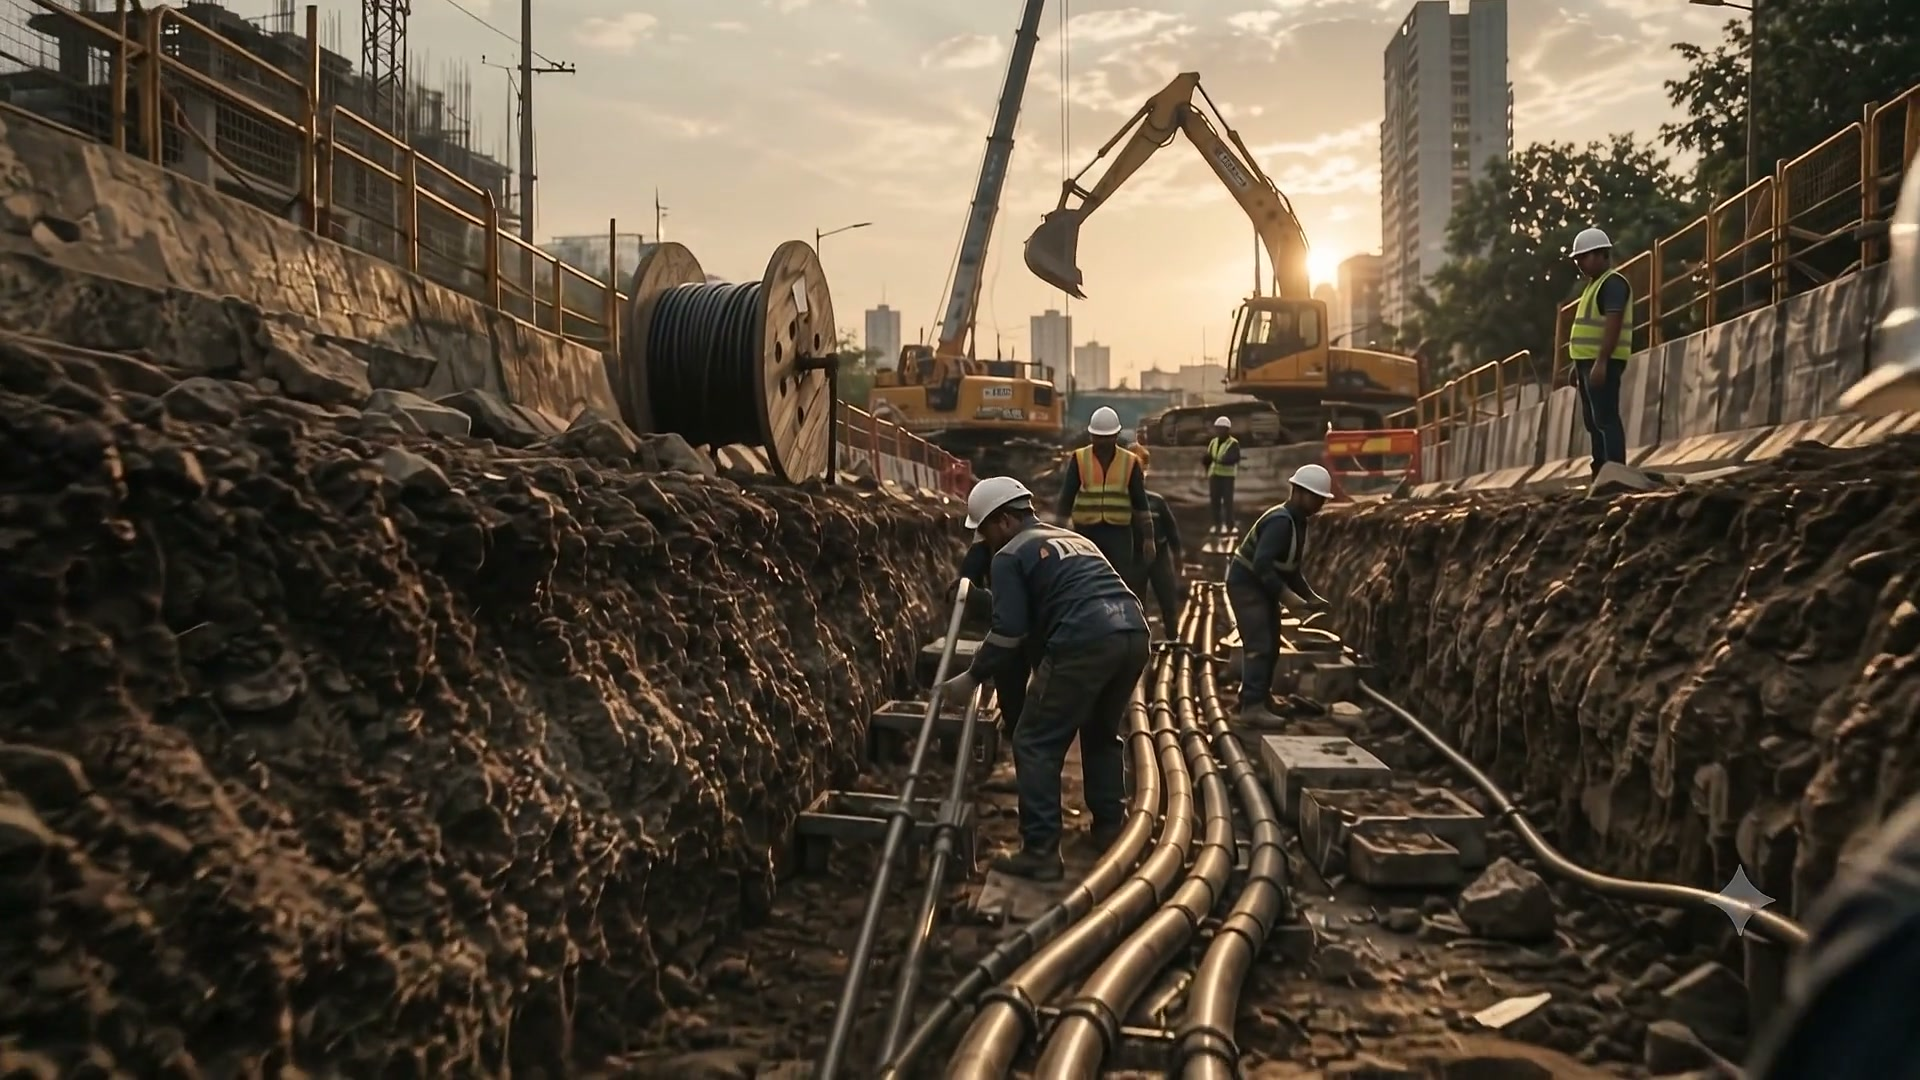
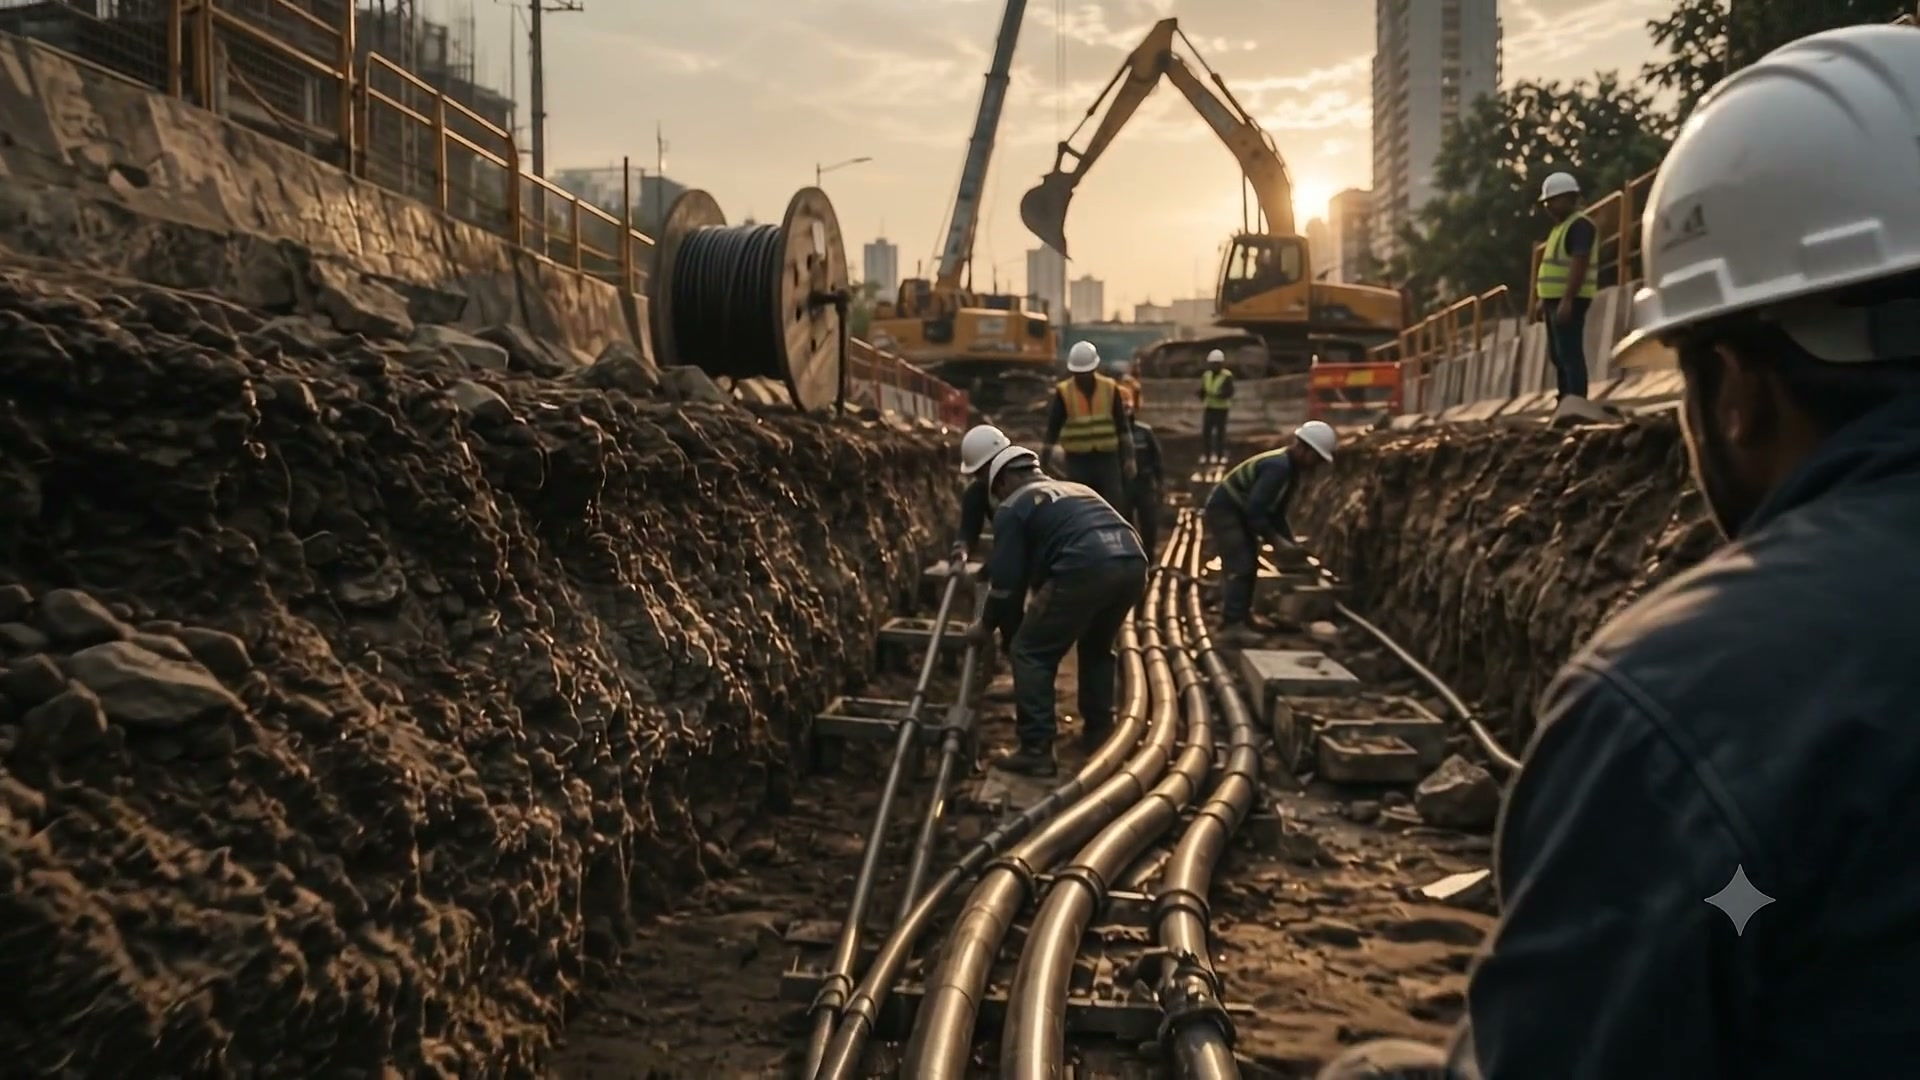
feat(cable-systems): expand video frame to 4/3 aspect ratio with two-col-45-55 grid for full cinematic visibility

diff --git a/components/cable-systems/UndergroundCableSection.tsx b/components/cable-systems/UndergroundCableSection.tsx
@@ -57,7 +57,7 @@ export default function UndergroundCableSection() {
       aria-label="Underground cable systems"
     >
       <div className="site-container">
-        <div className="two-col-55-45" style={{ alignItems: 'center' }}>
+        <div className="two-col-45-55" style={{ alignItems: 'center' }}>
 
           {/* LEFT — Text */}
           <div>
@@ -114,10 +114,10 @@ export default function UndergroundCableSection() {
           </div>
 
           {/* RIGHT — Visual */}
-          <div data-visual className="media-frame" style={{ aspectRatio: '9/12', clipPath: 'inset(0 0% 0 0)' }}>
+          <div data-visual className="media-frame" style={{ aspectRatio: '4/3', clipPath: 'inset(0 0% 0 0)' }}>
             <LazyVideo
               src={MEDIA.cableSystems}
-              poster="/media/posters/underground-cabling-system-portrait.jpg"
+              poster="/media/posters/underground-cabling-system.jpg"
               aria-label="Underground cable works and installations"
             />
           </div>

diff --git a/data/media.ts b/data/media.ts
@@ -14,7 +14,7 @@ export const MEDIA = {
   },
 
   // ── Infrastructure / Cable Systems ───────────────────────
-  cableSystems: '/media/underground-cabling-system-portrait.mp4',
+  cableSystems: '/media/underground-cabling-system.mp4',
 
   // ── Transmission ─────────────────────────────────────────
   transmission: '/media/substation.mp4',
